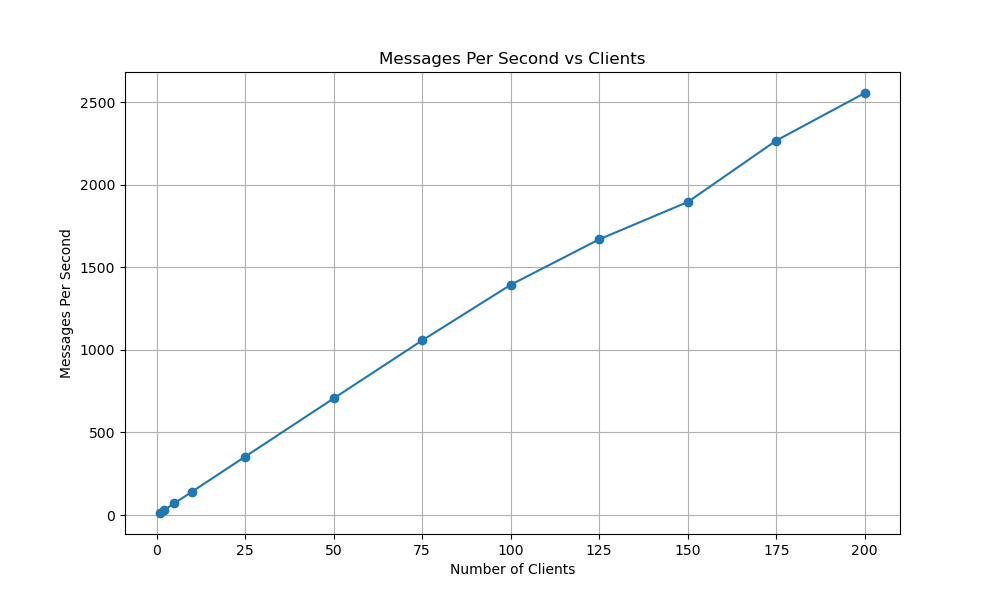
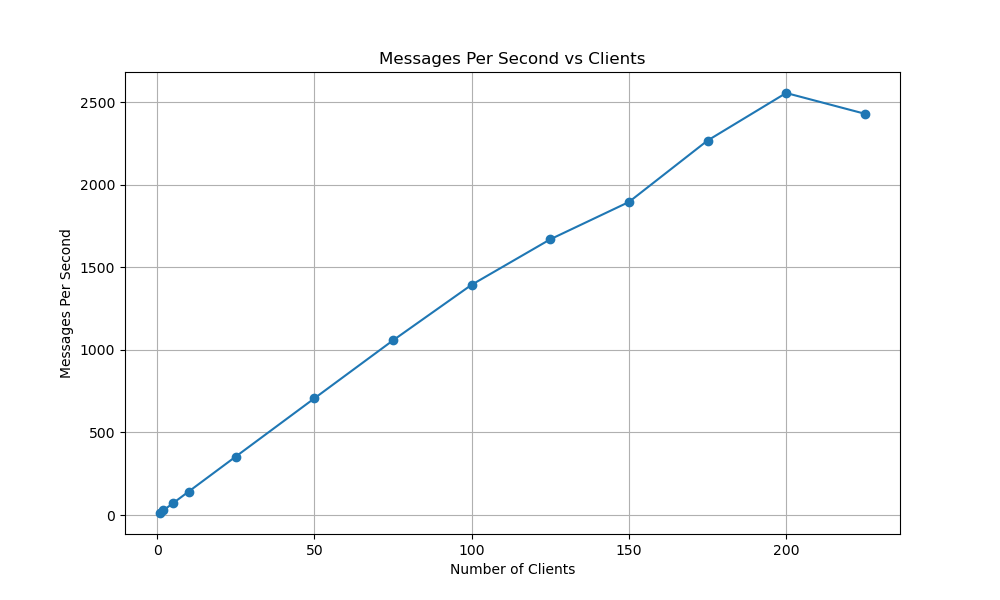
225 Added grpahs made

diff --git a/Assignment 1/StressTesting/Graphs/Script.py b/Assignment 1/StressTesting/Graphs/Script.py
@@ -1,28 +1,28 @@
 import matplotlib.pyplot as plt
 import pandas as pd
 
-# Updated data with correct values
+# Corrected data with 225 clients included and in the correct order
 data = {
-    'Clients': [200, 175, 150, 125, 100, 75, 50, 25, 10, 5, 2, 1],
-    'Total Messages Processed': [771403, 685847, 570540, 502758, 419027, 318591, 212880, 106375, 42600, 21320, 8536, 3721],
-    'Elapsed Time (s)': [301.79, 302.40, 301.26, 301.06, 300.49, 301.19, 301.26, 300.59, 300.72, 300.80, 300.90, 300.65],
-    'Messages Per Second': [2556.11, 2267.98, 1895.90, 1669.95, 1394.48, 1057.78, 706.64, 353.89, 141.66, 70.88, 28.37, 12.38],
-    'Average CPU Usage (%)': [67.97, 50.43, 34.66, 26.07, 16.25, 9.95, 3.86, 1.03, 0.21, 0.14, 0.10, 0.08],
-    'Average Memory Usage (MB)': [12.62, 12.62, 12.87, 12.73, 12.62, 12.75, 12.75, 12.75, 12.62, 12.87, 12.99, 12.75],
-    'Bytes Sent (MB)': [393.30, 289.43, 187.61, 152.83, 99.68, 52.85, 23.35, 6.03, 1.06, 0.34, 0.06, 0.02],
-    'Bytes Received (MB)': [13.08, 11.58, 8.94, 8.06, 6.74, 5.32, 3.58, 1.61, 0.69, 0.39, 0.17, 0.09],
-    'Packets Sent': [738123.93, 588347.87, 385319.07, 325119.07, 218646.47, 142494.93, 66773.80, 21445.60, 5726.00, 2870.00, 594.80, 264.57],
-    'Packets Received': [183558.87, 162445.27, 125192.93, 111979.67, 94029.47, 74580.00, 50173.20, 22329.13, 9506.79, 5312.53, 2062.67, 1232.43],
-    'CPU Frequency (MHz)': [1546.51, 1486.96, 1577.62, 1635.37, 1513.21, 1401.47, 1361.85, 1395.03, 1315.99, 1348.48, 1446.53, 1259.85]
+    'Clients': [225, 200, 175, 150, 125, 100, 75, 50, 25, 10, 5, 2, 1],
+    'Total Messages Processed': [730558, 771403, 685847, 570540, 502758, 419027, 318591, 212880, 106375, 42600, 21320, 8536, 3721],
+    'Elapsed Time (s)': [300.58, 301.79, 302.40, 301.26, 301.06, 300.49, 301.19, 301.26, 300.59, 300.72, 300.80, 300.90, 300.65],
+    'Messages Per Second': [2430.51, 2556.11, 2267.98, 1895.90, 1669.95, 1394.48, 1057.78, 706.64, 353.89, 141.66, 70.88, 28.37, 12.38],
+    'Average CPU Usage (%)': [64.09, 67.97, 50.43, 34.66, 26.07, 16.25, 9.95, 3.86, 1.03, 0.21, 0.14, 0.10, 0.08],
+    'Average Memory Usage (MB)': [12.75, 12.62, 12.62, 12.87, 12.73, 12.62, 12.75, 12.75, 12.75, 12.62, 12.87, 12.99, 12.75],
+    'Bytes Sent (MB)': [397.81, 393.30, 289.43, 187.61, 152.83, 99.68, 52.85, 23.35, 6.03, 1.06, 0.34, 0.06, 0.02],
+    'Bytes Received (MB)': [13.48, 13.08, 11.58, 8.94, 8.06, 6.74, 5.32, 3.58, 1.61, 0.69, 0.39, 0.17, 0.09],
+    'Packets Sent': [766854.47, 738123.93, 588347.87, 385319.07, 325119.07, 218646.47, 142494.93, 66773.80, 21445.60, 5726.00, 2870.00, 594.80, 264.57],
+    'Packets Received': [190170.40, 183558.87, 162445.27, 125192.93, 111979.67, 94029.47, 74580.00, 50173.20, 22329.13, 9506.79, 5312.53, 2062.67, 1232.43],
+    'CPU Frequency (MHz)': [1334.23, 1546.51, 1486.96, 1577.62, 1635.37, 1513.21, 1401.47, 1361.85, 1395.03, 1315.99, 1348.48, 1446.53, 1259.85]
 }
 
+# Create DataFrame
 df = pd.DataFrame(data)
 
 # Define a list of (column_name, plot_title, y_label) tuples for plotting
 plot_specs = [
     ('Total Messages Processed', 'Total Messages Processed vs Clients', 'Total Messages Processed'),
     ('Elapsed Time (s)', 'Elapsed Time vs Clients', 'Elapsed Time (s)'),
-    ('Messages Per Second', 'Messages Per Second vs Clients', 'Messages Per Second'),
     ('Average CPU Usage (%)', 'Average CPU Usage vs Clients', 'CPU Usage (%)'),
     ('Average Memory Usage (MB)', 'Average Memory Usage vs Clients', 'Memory Usage (MB)'),
     ('Bytes Sent (MB)', 'Bytes Sent vs Clients', 'Bytes Sent (MB)'),
@@ -32,7 +32,7 @@ plot_specs = [
     ('CPU Frequency (MHz)', 'CPU Frequency vs Clients', 'CPU Frequency (MHz)')
 ]
 
-# Plot and save each graph as a PNG file
+# Plot and save each graph as a PNG file (excluding the Messages Per Second graph with the ideal line)
 for column_name, title, ylabel in plot_specs:
     plt.figure(figsize=(10, 6))
     plt.plot(df['Clients'], df[column_name], marker='o')
@@ -43,5 +43,23 @@ for column_name, title, ylabel in plot_specs:
     plt.savefig(f'{title.replace(" ", "_").replace("/", "_")}.png')  # Save as PNG, replacing spaces and slashes
     plt.close()
 
-print("All graphs have been saved as PNG files in the current directory.")
+# Plot the 'Total Messages Processed' graph with an additional line for y = 4284 * x
+plt.figure(figsize=(10, 6))
+plt.plot(df['Clients'], df['Total Messages Processed'], marker='o', label='Total Messages Processed')
 
+# Plot the ideal y = 4284 * x line
+ideal_messages = [4284 * x for x in df['Clients']]
+plt.plot(df['Clients'], ideal_messages, linestyle='--', color='red', label='Ideal (y = 4284x)')
+
+# Add titles and labels
+plt.title('Total Messages Processed vs Clients')
+plt.xlabel('Number of Clients')
+plt.ylabel('Total Messages Processed')
+plt.grid(True)
+plt.legend()
+
+# Save the plot
+plt.savefig('Total_Messages_Processed_vs_Clients_with_Ideal_Gradient.png')
+plt.close()
+
+print("All graphs have been saved")

diff --git a/Assignment 1/StressTesting/Report.md b/Assignment 1/StressTesting/Report.md
@@ -49,10 +49,6 @@ In this analysis, we evaluate the performance of our chat server by measuring ho
 
 ![Average CPU Usage vs Clients](Graphs/Average_CPU_Usage_vs_Clients.png)
 
-#### Average Memory Usage vs. Number of Clients
-
-![Average Memory Usage vs Clients](Graphs/Average_Memory_Usage_vs_Clients.png)
-
 #### Average CPU Frequency vs. Number of Clients
 
 ![CPU Frequency vs Clients](Graphs/CPU_Frequency_vs_Clients.png)
@@ -71,11 +67,11 @@ In this analysis, we evaluate the performance of our chat server by measuring ho
 
 #### Packets Received per Interval vs. Number of Clients
 
-![Packets Received vs Clients](Graphs/ackets_Received_vs_Clients.png)
+![Packets Received vs Clients](Graphs/Packets_Received_vs_Clients.png)
 
-#### Total Messages Processed vs. Number of Clients
+#### Total Messages Processed vs. Number of Clients | with ideal performance
 
-![Total Messages Processed vs Clients](Graphs/Total_Messages_Processed_vs_Clients.png)
+![Total Messages Processed vs Clients](Graphs/Total_Messages_Processed_vs_Clients_with_Ideal_Gradient)
 
 ## Analysis
 
@@ -83,7 +79,8 @@ In this analysis, we evaluate the performance of our chat server by measuring ho
 
 Yes, running more clients significantly affected the server's performance. As the number of clients increased:
 
-- **Average Messages per Second**: The server processed more messages per second with more clients, but the rate of increase slowed down at higher client counts. For example, doubling the clients from 100 to 200 did not double the messages per second.
+- **Average Messages per Second**: The server shows a steady increase in the number of messages processed per second as the number of clients grows, but this increase slows down as the client count rises. Notably, doubling the clients from 100 to 200 does not result in a proportional doubling of the messages per second. I configured each spam client to send a message every 0.07 seconds, which translates to around 4284 messages being sent by a single client over a 5-minute period. In an ideal situation, the total number of messages processed should increase by 4284 for each additional client. However, the actual results closely follow this ideal line up to about 100 clients. Beyond this point, the server’s performance begins to deviate from the ideal, with the number of processed messages gradually falling behind. By the time the client count reaches around 200, the server hits a bottleneck, and the performance noticeably lags behind the ideal, as seen in the graph
+
 - **CPU Usage**: There was a substantial increase in CPU usage, from virtually 0% with 1 client to nearly 68% with 200 clients.
 - **Memory Usage**: Memory usage remained relatively constant around 12.6 MB, indicating that CPU and not memory was the bottleneck.
 - **Network Traffic**: Both bytes and packets sent and received per interval increased with the number of clients, indicating higher network load.

diff --git a/Assignment 1/Readme.md b/Assignment 1/Readme.md
@@ -1,9 +1,10 @@
-
-
 The Chat Server and Client for part 1 of the assignment is stored in this directory, Part 2 is stored in the StressTesting
-Directory. 
+Directory.
 
-Part 1: 
-How to make the ChatServer run ?
+Part 1:
+How to make the ChatServer run :
 
+Run the Server.py file first by :
+Python Server.py
 
+then run the Client.py file, by giving the IP address of the host machine as a command line argument :
